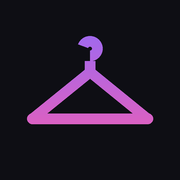
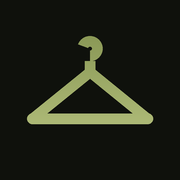
Couleur d'accent : vert olive
Claude-Session: https://claude.ai/code/session_01AJMDEQagK3BG1TWzN7uHp6

Changed region(s): [[0.1389, 0.1944, 0.8611, 0.6944]]

diff --git a/style.css b/style.css
@@ -1,7 +1,7 @@
 :root{
-  --bg:#0c0c12; --ink:#f4f3fa; --soft:#c9c8d8; --muted:#8c8ba3; --line:rgba(255,255,255,.09);
+  --bg:#0c0d0a; --ink:#f4f5ef; --soft:#cfd1c6; --muted:#8e9284; --line:rgba(255,255,255,.09);
   --glass:rgba(255,255,255,.055); --glass-2:rgba(255,255,255,.09);
-  --a1:#8b6cff; --a2:#ff5ca8; --grad:linear-gradient(135deg,var(--a1),var(--a2));
+  --a1:#6b7a3c; --a2:#a3b16a; --grad:linear-gradient(135deg,var(--a1),var(--a2));
   --danger:#ff6b7d; --r:24px;
   --safe-b:env(safe-area-inset-bottom,0px); --safe-t:env(safe-area-inset-top,0px);
 }
@@ -9,8 +9,8 @@
 html,body{margin:0;background:var(--bg);color:var(--ink);font:16px/1.45 -apple-system,BlinkMacSystemFont,"SF Pro Text","Inter",system-ui,sans-serif;-webkit-font-smoothing:antialiased}
 body{min-height:100vh;padding-bottom:calc(92px + var(--safe-b));overscroll-behavior-y:none}
 .bg-glow{position:fixed;inset:0;z-index:-1;pointer-events:none;
-  background:radial-gradient(60% 40% at 15% 0%,rgba(110,80,255,.35),transparent 70%),
-             radial-gradient(50% 35% at 100% 20%,rgba(255,80,160,.16),transparent 70%),var(--bg)}
+  background:radial-gradient(60% 40% at 15% 0%,rgba(110,128,60,.35),transparent 70%),
+             radial-gradient(50% 35% at 100% 20%,rgba(170,185,110,.16),transparent 70%),var(--bg)}
 main{padding:calc(14px + var(--safe-t)) 16px 24px;max-width:560px;margin:0 auto}
 .tab{display:none;animation:fade .25s ease}.tab.active{display:block}
 @keyframes fade{from{opacity:0;transform:translateY(6px)}to{opacity:1;transform:none}}
@@ -36,15 +36,15 @@ ol{padding-left:18px;margin:6px 0}
 button,.filebtn{font:inherit;color:inherit;cursor:pointer;-webkit-user-select:none;user-select:none}
 button:active,.filebtn:active,.pick-card:active,.tile:active,.lcard:active{transform:scale(.97)}
 button:disabled{opacity:.45}
-.btn-grad{display:inline-flex;align-items:center;justify-content:center;gap:8px;border:none;border-radius:18px;padding:15px 18px;background:var(--grad);color:#fff;font-weight:650;font-size:16px;box-shadow:0 8px 24px rgba(139,108,255,.35);transition:transform .15s}
+.btn-grad{display:inline-flex;align-items:center;justify-content:center;gap:8px;border:none;border-radius:18px;padding:15px 18px;background:var(--grad);color:#fff;font-weight:650;font-size:16px;box-shadow:0 8px 24px rgba(138,154,91,.35);transition:transform .15s}
 .btn-glass{display:inline-flex;align-items:center;justify-content:center;gap:8px;border:1px solid var(--line);border-radius:16px;padding:12px 14px;background:var(--glass-2);font-weight:600;font-size:15px;transition:transform .15s}
 .btn-icon{display:inline-flex;align-items:center;justify-content:center;width:54px;flex:0 0 54px;border-radius:18px;border:1px solid var(--line);background:var(--glass-2);transition:transform .15s}
 .btn-icon .ic{width:24px;height:24px}
-.btn-icon.saved{background:rgba(255,92,168,.16);border-color:rgba(255,92,168,.5);color:var(--a2)}
+.btn-icon.saved{background:rgba(194,205,138,.16);border-color:rgba(194,205,138,.5);color:var(--a2)}
 .btn-icon.saved .ic{fill:var(--a2);stroke:var(--a2)}
 .btn-round{width:36px;height:36px;border-radius:50%;border:none;background:var(--glass-2);display:inline-flex;align-items:center;justify-content:center;color:var(--soft)}
 .btn-round .ic{width:18px;height:18px}
-.link{display:inline-flex;align-items:center;gap:6px;border:none;background:none;color:#b7a6ff;font-weight:600;padding:8px 0}
+.link{display:inline-flex;align-items:center;gap:6px;border:none;background:none;color:#c6d196;font-weight:600;padding:8px 0}
 .link .ic{width:16px;height:16px}
 .danger{color:var(--danger)!important}
 .full{width:100%;margin-top:12px;justify-content:center}
@@ -53,8 +53,8 @@ button:disabled{opacity:.45}
 
 /* Champs */
 input[type=text],input[type=password],select{width:100%;font:inherit;font-size:16px;padding:13px 14px;border:1px solid var(--line);border-radius:14px;background:rgba(255,255,255,.06);color:var(--ink);outline:none}
-input:focus{border-color:rgba(139,108,255,.7)}
-input::placeholder{color:#6d6c82}
+input:focus{border-color:rgba(138,154,91,.7)}
+input::placeholder{color:#6f7366}
 .field{display:block;margin:18px 0 8px;font-size:13px;color:var(--muted);font-weight:600;text-transform:uppercase;letter-spacing:.6px}
 .field input{margin-top:8px;text-transform:none;letter-spacing:0;font-weight:400}
 details{margin-top:12px;color:var(--muted)}summary{cursor:pointer}
@@ -69,13 +69,13 @@ details{margin-top:12px;color:var(--muted)}summary{cursor:pointer}
 .wx-side .range{color:var(--muted);font-size:13px}
 .wx-pills{display:flex;gap:6px;flex-wrap:wrap;margin-top:12px}
 .pill{font-size:12px;color:var(--soft);background:rgba(255,255,255,.06);border:1px solid var(--line);border-radius:20px;padding:5px 10px;display:inline-flex;align-items:center;gap:5px}
-.pill.btn{cursor:pointer;color:#b7a6ff}
+.pill.btn{cursor:pointer;color:#c6d196}
 .pill .ic{width:13px;height:13px}
 
 /* Tenue */
 .outfit{padding:12px}
 .stage{position:relative;width:100%;aspect-ratio:3/4;border-radius:18px;overflow:hidden;touch-action:pan-y;
-  background:radial-gradient(70% 55% at 50% 38%,rgba(139,108,255,.32),transparent 75%),linear-gradient(180deg,#1b1a2a,#121219)}
+  background:radial-gradient(70% 55% at 50% 38%,rgba(138,154,91,.32),transparent 75%),linear-gradient(180deg,#1a1d15,#111310)}
 .stage svg.mannequin{position:absolute;inset:0;width:100%;height:100%}
 .stage .piece{position:absolute;object-fit:contain;filter:drop-shadow(0 8px 14px rgba(0,0,0,.45));transition:transform .3s ease,opacity .3s ease;cursor:pointer}
 .stage.out .piece{opacity:0;transform:translateX(var(--dx,-30px))}
@@ -110,7 +110,7 @@ details{margin-top:12px;color:var(--muted)}summary{cursor:pointer}
 .empty p{margin:6px 0}
 .empty-ic{width:64px;height:64px;border-radius:22px;margin:0 auto 14px;background:var(--glass-2);display:flex;align-items:center;justify-content:center}
 .empty-ic .ic{width:30px;height:30px;stroke:url(#grad)}
-.fab{position:fixed;right:20px;bottom:calc(96px + var(--safe-b));width:60px;height:60px;border-radius:20px;background:var(--grad);color:#fff;border:none;display:flex;align-items:center;justify-content:center;box-shadow:0 10px 28px rgba(139,108,255,.5);z-index:6}
+.fab{position:fixed;right:20px;bottom:calc(96px + var(--safe-b));width:60px;height:60px;border-radius:20px;background:var(--grad);color:#fff;border:none;display:flex;align-items:center;justify-content:center;box-shadow:0 10px 28px rgba(138,154,91,.5);z-index:6}
 .fab .ic{width:28px;height:28px;stroke-width:2.2}
 
 /* Tenues */
@@ -131,16 +131,16 @@ details{margin-top:12px;color:var(--muted)}summary{cursor:pointer}
 /* Feuilles */
 .sheet{position:fixed;inset:0;background:rgba(0,0,0,.55);z-index:30;display:flex;align-items:flex-end;animation:fadebg .2s}
 @keyframes fadebg{from{background:rgba(0,0,0,0)}}
-.sheet-body{width:100%;max-width:560px;margin:0 auto;max-height:92vh;overflow-y:auto;background:#17161f;border:1px solid var(--line);border-bottom:none;border-radius:28px 28px 0 0;padding:10px 18px calc(26px + var(--safe-b));animation:up .28s cubic-bezier(.2,.9,.3,1)}
+.sheet-body{width:100%;max-width:560px;margin:0 auto;max-height:92vh;overflow-y:auto;background:#151712;border:1px solid var(--line);border-bottom:none;border-radius:28px 28px 0 0;padding:10px 18px calc(26px + var(--safe-b));animation:up .28s cubic-bezier(.2,.9,.3,1)}
 @keyframes up{from{transform:translateY(100%)}}
 .grabber{width:40px;height:5px;border-radius:3px;background:rgba(255,255,255,.18);margin:0 auto 12px}
 .pick{display:grid;gap:10px;margin-top:14px}
 .pick-card{display:flex;flex-direction:column;align-items:flex-start;gap:4px;padding:18px;border-radius:20px;background:var(--glass-2);border:1px solid var(--line);cursor:pointer;transition:transform .15s}
 .pick-card .ic{width:26px;height:26px;margin-bottom:6px}
 .pick-card span{font-size:13px;color:var(--muted)}
-.pick-card.main{background:linear-gradient(135deg,rgba(139,108,255,.3),rgba(255,92,168,.22));border-color:rgba(139,108,255,.45)}
+.pick-card.main{background:linear-gradient(135deg,rgba(138,154,91,.3),rgba(194,205,138,.22));border-color:rgba(138,154,91,.45)}
 .photo-box{width:100%;aspect-ratio:1;border-radius:20px;overflow:hidden;display:flex;align-items:center;justify-content:center;margin-top:12px;
-  background:radial-gradient(60% 60% at 50% 45%,rgba(139,108,255,.25),transparent 80%),#1d1c27}
+  background:radial-gradient(60% 60% at 50% 45%,rgba(138,154,91,.25),transparent 80%),#1a1d16}
 .photo-box img{max-width:88%;max-height:88%;object-fit:contain;filter:drop-shadow(0 8px 16px rgba(0,0,0,.5))}
 .swatches{display:flex;flex-wrap:wrap;gap:10px}
 .swatches button{width:34px;height:34px;border-radius:50%;border:2px solid transparent;padding:0;outline:1px solid rgba(255,255,255,.18);outline-offset:-1px}
@@ -161,32 +161,32 @@ details{margin-top:12px;color:var(--muted)}summary{cursor:pointer}
 
 /* Barre d'onglets */
 .tabs{position:fixed;left:12px;right:12px;bottom:calc(10px + var(--safe-b));max-width:536px;margin:0 auto;display:flex;padding:6px;border-radius:26px;z-index:20;
-  background:rgba(24,23,34,.78);border:1px solid var(--line);backdrop-filter:blur(24px) saturate(160%);-webkit-backdrop-filter:blur(24px) saturate(160%);box-shadow:0 10px 30px rgba(0,0,0,.4)}
-.tabs button{flex:1;border:none;background:none;border-radius:20px;padding:8px 0 7px;font-size:10.5px;font-weight:600;color:#78778e;display:flex;flex-direction:column;align-items:center;gap:3px;transition:background .2s,color .2s}
+  background:rgba(22,24,19,.78);border:1px solid var(--line);backdrop-filter:blur(24px) saturate(160%);-webkit-backdrop-filter:blur(24px) saturate(160%);box-shadow:0 10px 30px rgba(0,0,0,.4)}
+.tabs button{flex:1;border:none;background:none;border-radius:20px;padding:8px 0 7px;font-size:10.5px;font-weight:600;color:#7b7f72;display:flex;flex-direction:column;align-items:center;gap:3px;transition:background .2s,color .2s}
 .tabs button .ic{width:23px;height:23px}
 .tabs button.active{color:#fff;background:rgba(255,255,255,.08)}
 .tabs button.active .ic{stroke:url(#grad)}
 
-.toast{position:fixed;left:50%;transform:translateX(-50%);bottom:calc(100px + var(--safe-b));background:rgba(40,38,56,.95);border:1px solid var(--line);backdrop-filter:blur(20px);-webkit-backdrop-filter:blur(20px);color:#fff;padding:11px 18px;border-radius:16px;font-size:14px;z-index:50;max-width:88%;text-align:center;box-shadow:0 10px 30px rgba(0,0,0,.4);animation:fade .2s}
+.toast{position:fixed;left:50%;transform:translateX(-50%);bottom:calc(100px + var(--safe-b));background:rgba(36,40,31,.95);border:1px solid var(--line);backdrop-filter:blur(20px);-webkit-backdrop-filter:blur(20px);color:#fff;padding:11px 18px;border-radius:16px;font-size:14px;z-index:50;max-width:88%;text-align:center;box-shadow:0 10px 30px rgba(0,0,0,.4);animation:fade .2s}
 .spinner{display:inline-block;width:14px;height:14px;border:2px solid rgba(255,255,255,.15);border-top-color:var(--a2);border-radius:50%;animation:spin 1s linear infinite;vertical-align:-2px;margin-right:8px}
 @keyframes spin{to{transform:rotate(360deg)}}
 
 /* Assistant */
-.head h1#greeting{font-size:34px;background:linear-gradient(90deg,#fff 30%,#c8b8ff);-webkit-background-clip:text;background-clip:text;color:transparent}
+.head h1#greeting{font-size:34px;background:linear-gradient(90deg,#fff 30%,#d6e0ae);-webkit-background-clip:text;background-clip:text;color:transparent}
 .assistant-line{margin:8px 0 0;font-size:15px;line-height:1.45;color:var(--soft);min-height:22px}
 .assistant-line b{color:var(--ink);font-weight:600}
 .section-title{font-size:13px;font-weight:600;color:var(--muted);text-transform:uppercase;letter-spacing:.8px;margin:22px 4px 10px}
 .fact{padding:16px 18px;position:relative;overflow:hidden}
-.fact::before{content:"";position:absolute;inset:0;background:linear-gradient(135deg,rgba(94,231,255,.10),rgba(139,108,255,.10) 50%,rgba(255,92,168,.08));pointer-events:none}
-.fact .f-head{display:flex;justify-content:space-between;align-items:center;font-size:12px;font-weight:650;text-transform:uppercase;letter-spacing:.8px;color:#b7a6ff}
+.fact::before{content:"";position:absolute;inset:0;background:linear-gradient(135deg,rgba(210,224,160,.10),rgba(138,154,91,.10) 50%,rgba(194,205,138,.08));pointer-events:none}
+.fact .f-head{display:flex;justify-content:space-between;align-items:center;font-size:12px;font-weight:650;text-transform:uppercase;letter-spacing:.8px;color:#c6d196}
 .fact .f-head span:last-child{color:var(--muted);font-weight:500;text-transform:none;letter-spacing:0}
 .fact p{margin:8px 0 0;font-size:15px;line-height:1.5;color:var(--ink)}
 .fact .f-share{margin-top:6px;font-size:13px}
 
 /* Animation d'ouverture */
-.intro{position:fixed;inset:0;z-index:100;background:radial-gradient(70% 50% at 50% 42%,#1a1640,#07070c 75%);display:flex;flex-direction:column;align-items:center;justify-content:center;transition:opacity .6s ease,transform .6s ease}
+.intro{position:fixed;inset:0;z-index:100;background:radial-gradient(70% 50% at 50% 42%,#1b2214,#070806 75%);display:flex;flex-direction:column;align-items:center;justify-content:center;transition:opacity .6s ease,transform .6s ease}
 .intro.leave{opacity:0;transform:scale(1.08);pointer-events:none}
-.intro-grid{position:absolute;inset:0;opacity:.18;background-image:linear-gradient(rgba(94,231,255,.25) 1px,transparent 1px),linear-gradient(90deg,rgba(94,231,255,.25) 1px,transparent 1px);background-size:32px 32px;-webkit-mask-image:radial-gradient(circle at 50% 42%,#000,transparent 65%);mask-image:radial-gradient(circle at 50% 42%,#000,transparent 65%)}
+.intro-grid{position:absolute;inset:0;opacity:.18;background-image:linear-gradient(rgba(210,224,160,.25) 1px,transparent 1px),linear-gradient(90deg,rgba(210,224,160,.25) 1px,transparent 1px);background-size:32px 32px;-webkit-mask-image:radial-gradient(circle at 50% 42%,#000,transparent 65%);mask-image:radial-gradient(circle at 50% 42%,#000,transparent 65%)}
 .reactor{width:min(62vw,260px);aspect-ratio:1;position:relative;animation:pop .7s cubic-bezier(.2,1.4,.4,1) both}
 .reactor svg{width:100%;height:100%;overflow:visible}
 .reactor .r{transform-origin:100px 100px;animation:spin 6s linear infinite}
@@ -200,11 +200,11 @@ details{margin-top:12px;color:var(--muted)}summary{cursor:pointer}
 @keyframes pop{from{transform:scale(.3);opacity:0}}
 @keyframes pulse{50%{transform:scale(1.18);opacity:.75}}
 .intro-text{margin-top:34px;text-align:center;min-height:120px;padding:0 24px}
-.intro-hello{font-size:28px;font-weight:300;letter-spacing:6px;text-transform:uppercase;color:#fff;text-shadow:0 0 18px rgba(139,108,255,.9)}
-.intro-hello .cursor{display:inline-block;width:2px;height:1em;background:#5ee7ff;margin-left:4px;vertical-align:-3px;animation:blink .8s steps(1) infinite}
+.intro-hello{font-size:28px;font-weight:300;letter-spacing:6px;text-transform:uppercase;color:#fff;text-shadow:0 0 18px rgba(138,154,91,.9)}
+.intro-hello .cursor{display:inline-block;width:2px;height:1em;background:#e3ecbd;margin-left:4px;vertical-align:-3px;animation:blink .8s steps(1) infinite}
 @keyframes blink{50%{opacity:0}}
-.intro-lines{margin-top:16px;font:12.5px/1.9 "SF Mono",ui-monospace,Menlo,monospace;color:#8fe9ff;letter-spacing:.5px;text-align:left;display:inline-block}
+.intro-lines{margin-top:16px;font:12.5px/1.9 "SF Mono",ui-monospace,Menlo,monospace;color:#d3dfa6;letter-spacing:.5px;text-align:left;display:inline-block}
 .intro-lines div{opacity:0;animation:line .35s ease forwards}
-.intro-lines div::before{content:"› ";color:#ff8cc6}
+.intro-lines div::before{content:"› ";color:#a8b86a}
 @keyframes line{from{opacity:0;transform:translateX(-6px)}to{opacity:1;transform:none}}
 .intro-skip{position:absolute;bottom:calc(30px + var(--safe-b));font-size:12px;color:rgba(255,255,255,.3)}

diff --git a/index.html b/index.html
@@ -7,7 +7,7 @@
 <meta name="mobile-web-app-capable" content="yes">
 <meta name="apple-mobile-web-app-status-bar-style" content="black-translucent">
 <meta name="apple-mobile-web-app-title" content="Garde-robe">
-<meta name="theme-color" content="#0e0e14">
+<meta name="theme-color" content="#0c0d0a">
 <meta name="color-scheme" content="dark">
 <title>Garde-robe</title>
 <link rel="manifest" href="manifest.json">
@@ -21,7 +21,7 @@
 <!-- Icônes réutilisables -->
 <svg width="0" height="0" style="position:absolute" aria-hidden="true">
   <defs>
-    <linearGradient id="grad" x1="0" y1="0" x2="1" y2="1"><stop offset="0" stop-color="#8b6cff"/><stop offset="1" stop-color="#ff5ca8"/></linearGradient>
+    <linearGradient id="grad" x1="0" y1="0" x2="1" y2="1"><stop offset="0" stop-color="#6b7a3c"/><stop offset="1" stop-color="#a3b16a"/></linearGradient>
   </defs>
   <symbol id="i-today" viewBox="0 0 24 24"><circle cx="12" cy="12" r="4.2"/><path d="M12 2.5v2.2M12 19.3v2.2M2.5 12h2.2M19.3 12h2.2M5.3 5.3l1.6 1.6M17.1 17.1l1.6 1.6M5.3 18.7l1.6-1.6M17.1 6.9l1.6-1.6"/></symbol>
   <symbol id="i-hanger" viewBox="0 0 24 24"><path d="M12 7.2a2.2 2.2 0 1 1 2.2-2.2c0 1.2-2.2 1.6-2.2 3v1.2L3 15.6c-.9.6-.5 2 .6 2h16.8c1.1 0 1.5-1.4.6-2L12 9.2"/></symbol>
@@ -252,7 +252,7 @@
   <div class="reactor">
     <svg viewBox="0 0 200 200">
       <defs>
-        <linearGradient id="rg" x1="0" y1="0" x2="1" y2="1"><stop offset="0" stop-color="#5ee7ff"/><stop offset=".5" stop-color="#8b6cff"/><stop offset="1" stop-color="#ff5ca8"/></linearGradient>
+        <linearGradient id="rg" x1="0" y1="0" x2="1" y2="1"><stop offset="0" stop-color="#e3ecbd"/><stop offset=".5" stop-color="#6b7a3c"/><stop offset="1" stop-color="#a3b16a"/></linearGradient>
         <filter id="glow"><feGaussianBlur stdDeviation="2.2" result="b"/><feMerge><feMergeNode in="b"/><feMergeNode in="SourceGraphic"/></feMerge></filter>
       </defs>
       <g filter="url(#glow)" fill="none" stroke="url(#rg)">
@@ -263,7 +263,7 @@
         <circle class="r r5" cx="100" cy="100" r="40" stroke-width="1.5" stroke-dasharray="40 12"/>
         <circle class="core" cx="100" cy="100" r="22" fill="url(#rg)" stroke="none"/>
       </g>
-      <circle class="scan" cx="100" cy="100" r="92" fill="none" stroke="#5ee7ff" stroke-width="2" stroke-dasharray="40 538" filter="url(#glow)"/>
+      <circle class="scan" cx="100" cy="100" r="92" fill="none" stroke="#e3ecbd" stroke-width="2" stroke-dasharray="40 538" filter="url(#glow)"/>
     </svg>
   </div>
   <div class="intro-text">

diff --git a/sw.js b/sw.js
@@ -1,5 +1,5 @@
 // Garde l'appli et le modèle de détourage en cache pour qu'ils marchent hors ligne
-const CACHE = 'garde-robe-v4';
+const CACHE = 'garde-robe-v5';
 const SHELL = ['./', 'index.html', 'style.css', 'app.js', 'facts.js', 'manifest.json', 'icons/icon-180.png', 'icons/icon-192.png'];
 self.addEventListener('install', e => { e.waitUntil(caches.open(CACHE).then(c => c.addAll(SHELL))); self.skipWaiting(); });
 self.addEventListener('activate', e => {
